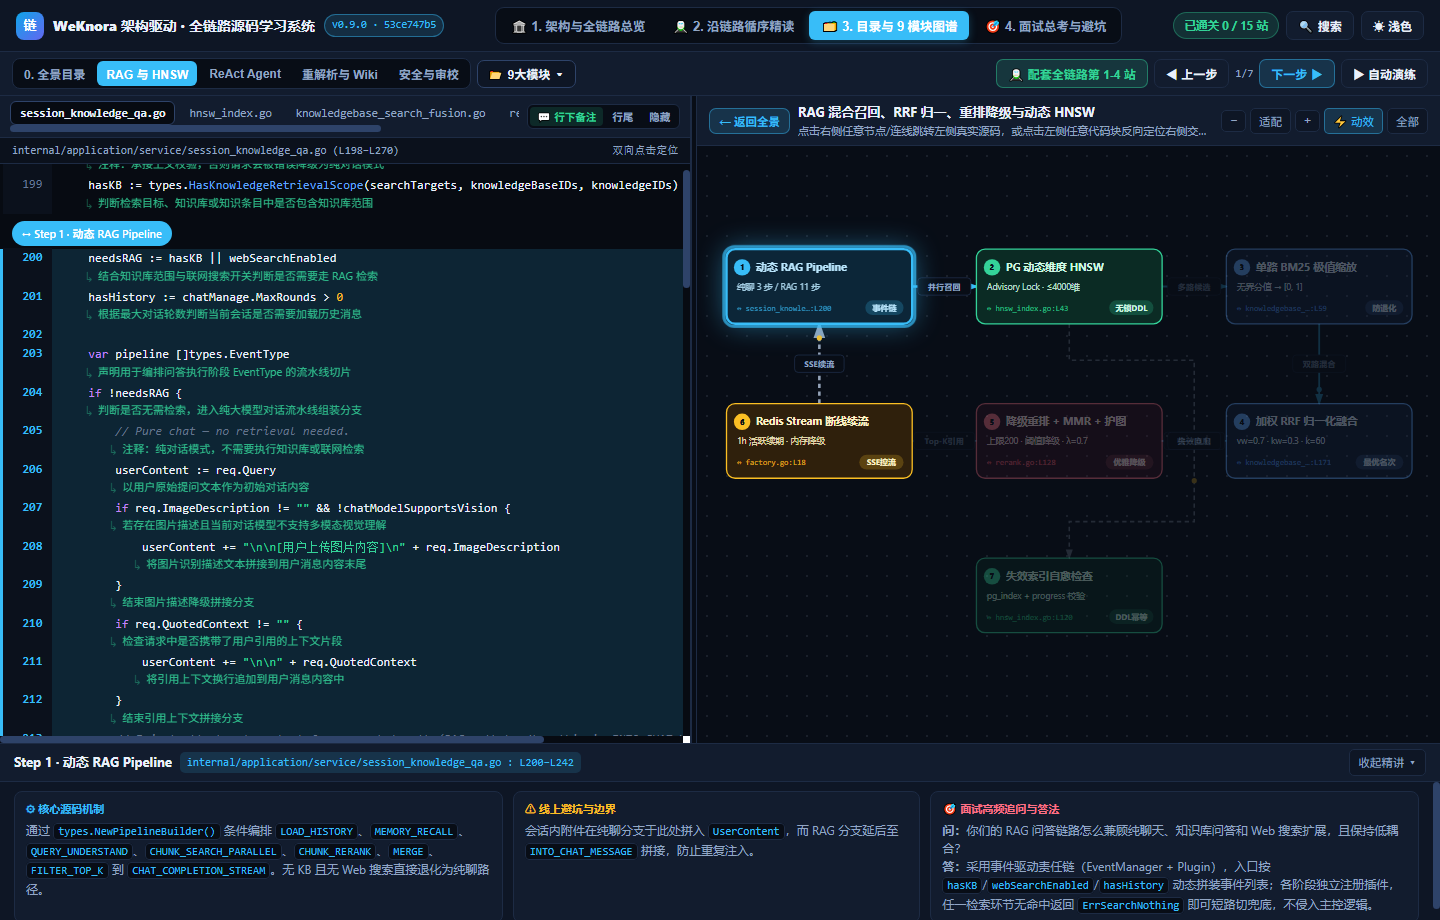
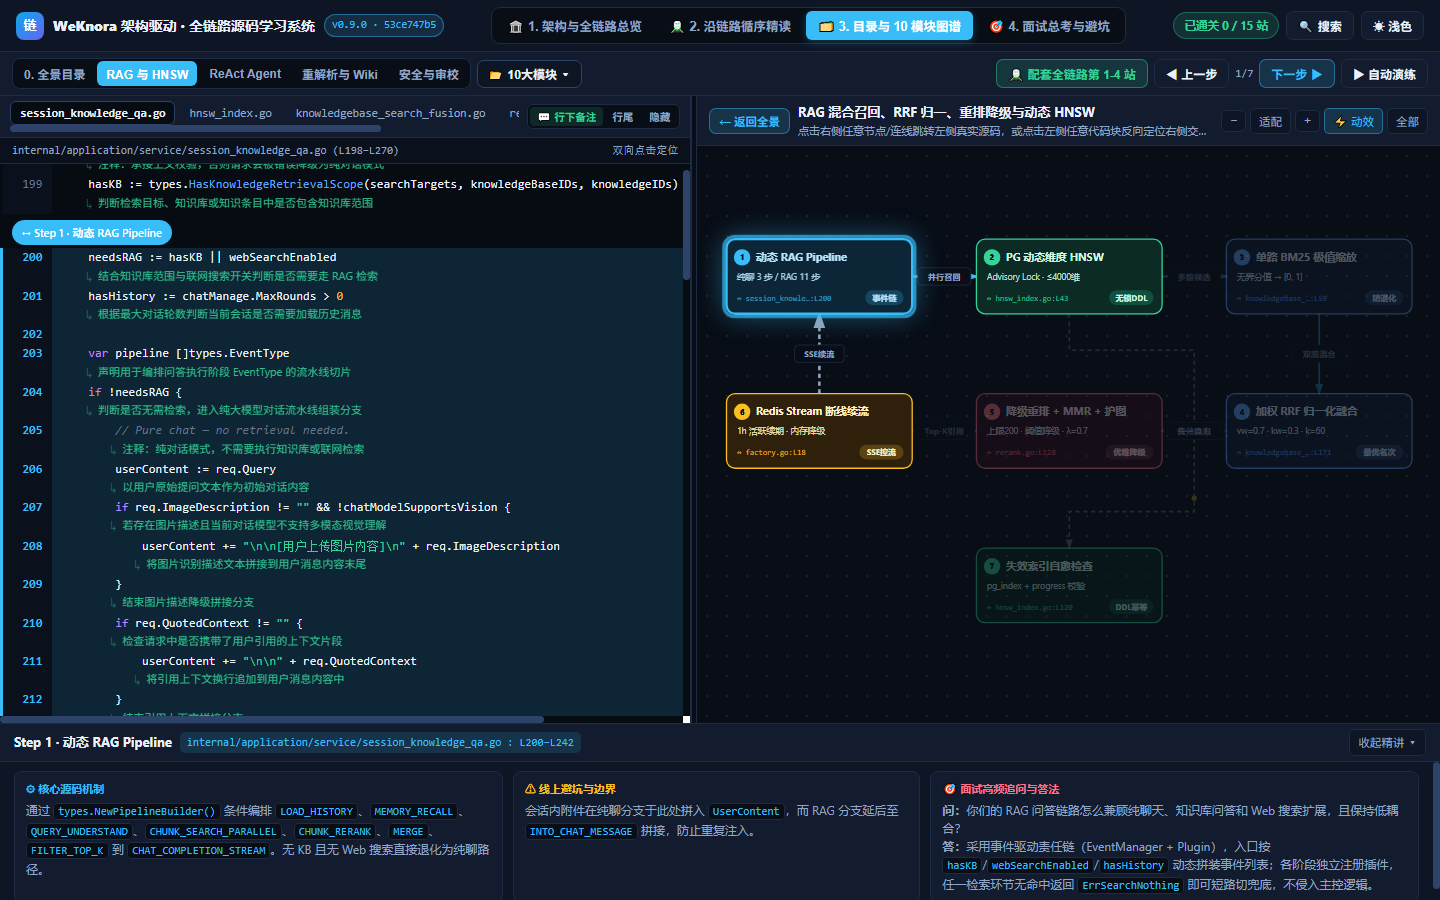
docs: add v6 interactive walkthrough GIF, full 4-view gallery & refreshed showcase

diff --git a/README.en.md b/README.en.md
@@ -50,8 +50,8 @@
 > **Try it zero-install in your browser**: [**🎮 Open Live Interactive Demo**](https://frank-zhu2000.github.io/repo-mastery-html/) — showcasing one real-world output generated from [`Tencent/WeKnora`](https://github.com/Tencent/WeKnora). `repo-mastery-html` adapts cleanly to **any language and open-source archetype** (Web/Backend, Frontend/UI, CLI/Compiler, or SDK/AI Engine across **18+ languages**). Note: generated study notes and per-line annotations are crafted in Simplified Chinese (`zh-CN`).
 
 <div align="center">
-  <img src="./docs/assets/03-station-code-notes.png" alt="Station-by-Station Learning Studio: Verbatim Code with Per-line Notes vs Pain Point & Micro-Flow" width="100%" />
-  <p><sub><b>Flagship View · Station-by-Station Studio:</b> Verbatim source code with 100% per-line annotations on the left (below / inline / hidden toggles) ↔ STEP 1 Pain Point + Intuition Analogy + STEP 2 Interactive Micro-Flow & Pitfalls on the right.</sub></p>
+  <img src="./docs/assets/demo-walkthrough.gif" alt="v6 Interactive Walkthrough: 3 Blueprints + 6-Dim Dossiers + Fullscreen Modal + Ctrl+K + Per-line Code Studio + Module Flows" width="100%" />
+  <p><sub><b>Full v6 Interactive Walkthrough:</b> 3 overview blueprints with anti-misclick neighbor highlighting → inline 2-column &amp; fullscreen 6-dim dossiers + Q&amp;A self-test → <code>Ctrl+K</code> global search → 100% per-line annotated code ↔ 5-STEP studio → module drill-down &amp; light theme.</sub></p>
 </div>
 
 <table>
@@ -59,31 +59,43 @@
     <td width="50%" align="center">
       <img src="./docs/assets/01-overview-dataflow.png" alt="Map 1: Full-Chain Dataflow Grid with Topology Highlight" width="100%" />
       <br />
-      <sub><b>Map 1 · Full-Chain Dataflow & Neighbor Highlight</b><br />Stage × Flow lanes with single-track focus, upstream/downstream edge highlighting & green completion sync</sub>
+      <sub><b>Map 1 · Full-Chain Dataflow &amp; Neighbor Highlight</b><br />Stage × Flow lanes with single-track focus, upstream/downstream edge highlighting &amp; green completion sync</sub>
     </td>
     <td width="50%" align="center">
-      <img src="./docs/assets/07-overview-dossier-deck.png" alt="Inline 2-Column 6-Dimension Dossier Deck" width="100%" />
+      <img src="./docs/assets/09-overview-techarch.png" alt="Map 2: Tech Architecture Boundaries and Blast Radius" width="100%" />
       <br />
-      <sub><b>View 1 · Inline 6-Dimension Dossier Deck</b><br />Collapsible 2-column encyclopedia: Role/Principles/Anchors + P0/P1 outage simulation + Neighbor jumps + Q&A self-test</sub>
+      <sub><b>Map 2 · Tech Architecture &amp; Blast Radius</b><br />Component × dashed trust boundaries × orthogonal edge highlights focusing on layering &amp; failure scope</sub>
     </td>
   </tr>
   <tr>
     <td width="50%" align="center">
+      <img src="./docs/assets/07-overview-dossier-deck.png" alt="Inline 2-Column 6-Dimension Dossier Deck" width="100%" />
+      <br />
+      <sub><b>View 1 · Inline 6-Dimension Dossier Deck</b><br />Collapsible 2-column encyclopedia: Role/Principles/Anchors + P0/P1 outage simulation + Neighbor jumps + Q&amp;A self-test</sub>
+    </td>
+    <td width="50%" align="center">
       <img src="./docs/assets/08-overview-dossier-modal.png" alt="Fullscreen Dossier Reading Modal" width="100%" />
       <br />
-      <sub><b>View 1 · Fullscreen Dossier Modal</b><br />Smooth `←/→` keyboard & button roaming, expand/collapse interview answers & `Esc` modal close</sub>
+      <sub><b>View 1 · Fullscreen Dossier Modal</b><br />Smooth <code>←/→</code> keyboard &amp; button roaming, expand/collapse interview answers &amp; <code>Esc</code> modal close</sub>
     </td>
+  </tr>
+  <tr>
     <td width="50%" align="center">
       <img src="./docs/assets/02-overview-businessflow.png" alt="Map 3: End-to-End Business Swimlanes" width="100%" />
       <br />
-      <sub><b>Map 3 · End-to-End Business Swimlanes</b><br />Phases × Swimlanes × SLA failure perspective with multi-track filters & multi-view jump buttons</sub>
+      <sub><b>Map 3 · End-to-End Business Swimlanes</b><br />Phases × Swimlanes × SLA failure perspective with multi-track filters &amp; multi-view jump buttons</sub>
+    </td>
+    <td width="50%" align="center">
+      <img src="./docs/assets/03-station-code-notes.png" alt="Station-by-Station Learning Studio: Verbatim Code with Per-line Notes vs Pain Point & Micro-Flow" width="100%" />
+      <br />
+      <sub><b>View 2 · Station-by-Station Studio</b><br />100% per-line annotated source on the left (below / inline / hidden toggles) ↔ STEP 1 Analogy + STEP 2 Micro-Flow</sub>
     </td>
   </tr>
   <tr>
     <td width="50%" align="center">
       <img src="./docs/assets/04-station-io-contract.png" alt="STEP 3 Concrete I/O Data Contracts" width="100%" />
       <br />
-      <sub><b>STEP 3 · Concrete I/O Data Contracts</b><br />Entering struct/parameter tables → core transforms → exiting schema & concrete payloads</sub>
+      <sub><b>STEP 3 · Concrete I/O Data Contracts</b><br />Entering struct/parameter tables → core transforms → exiting schema &amp; concrete payloads</sub>
     </td>
     <td width="50%" align="center">
       <img src="./docs/assets/05-workbench-drilldown.png" alt="Annotated Directory Tree and Module Drill-Down" width="100%" />
@@ -94,7 +106,15 @@
 </table>
 
 <details>
-<summary>🌞 Expand to preview Light Theme v6 fullscreen dossier modal (one-click Dark / Light toggle inside the HTML)</summary>
+<summary>🎯 View 4 · Interview Sprint &amp; Mastery Exam Preview (3-Min Teleprompter + Skip Guide + Exam)</summary>
+<br />
+<div align="center">
+  <img src="./docs/assets/10-interview-exam.png" alt="View 4: 3-Minute Interview Teleprompter, Peripheral Skip Guide, and Mastery Exam" width="100%" />
+</div>
+</details>
+
+<details>
+<summary>🌞 Light Theme v6 Fullscreen Dossier Modal Preview (one-click Dark / Light toggle inside the HTML)</summary>
 <br />
 <div align="center">
   <img src="./docs/assets/06-light-theme.png" alt="Light Theme v6 Fullscreen Dossier Modal Preview" width="100%" />

diff --git a/README.md b/README.md
@@ -50,8 +50,8 @@
 > **零安装直接试玩**：[**🎮 点击打开 GitHub Pages 在线交互 Demo**](https://frank-zhu2000.github.io/repo-mastery-html/) —— 以开源项目 [`Tencent/WeKnora`](https://github.com/Tencent/WeKnora) 为实景案例生成，展示本 Skill 对任意 GitHub/本地开源仓库（支持 **Web 后端 / 前端框架 / CLI 编译器 / SDK 与 AI 引擎** 等 4 类架构原型及 **18+ 编程语言**）生成的单文件离线 HTML 效果。
 
 <div align="center">
-  <img src="./docs/assets/03-station-code-notes.png" alt="沿链路循序精读：左 100% 逐行中文精注源码 ↔ 右 痛点/类比/微流转图" width="100%" />
-  <p><sub><b>旗舰视图 · 沿链路循序精读：</b>左栏真实源码 100% 逐行中文精注（行下/行尾/隐藏一键切换）↔ 右栏 STEP 1 痛点与 0 基础类比 + STEP 2 微流转图双向高亮 + 线上避坑指南。</sub></p>
+  <img src="./docs/assets/demo-walkthrough.gif" alt="v6 全链路交互式源码学习系统动图演示（三大蓝图 + 6 维导读 + 全屏漫游 + Ctrl+K + 逐行中文源码 + 模块图谱）" width="100%" />
+  <p><sub><b>完整 v6 交互动图实录：</b>三大总览蓝图防误触选中与上下游高亮 → 图下 2 列 & 全屏 6 维导读与面试题自测 → <code>Ctrl+K</code> 全域搜索 → 左 100% 逐行中文源码 ↔ 右 5-STEP 学习工坊 → 目录模块流程图 ↔ 浅色主题切换。</sub></p>
 </div>
 
 <table>
@@ -62,21 +62,33 @@
       <sub><b>图一 · 全链路数据流转与节点联动</b><br />Stage × 主线网格，支持单链聚焦、选中节点上下游连线高亮、无关淡化与绿灯通关同步</sub>
     </td>
     <td width="50%" align="center">
-      <img src="./docs/assets/07-overview-dossier-deck.png" alt="图下常驻 2 列 6 维导读面板" width="100%" />
+      <img src="./docs/assets/09-overview-techarch.png" alt="图二：技术架构边界与爆炸半径视角" width="100%" />
       <br />
-      <sub><b>View 1 · 图下常驻 6 维深度导读</b><br />2 列可收起导读面板：作用/原理/源码锚点 + P0/P1 故障推演 + 上下游胶囊跳转 + 面试题自测</sub>
+      <sub><b>图二 · 技术架构边界与宕机爆炸半径</b><br />组件 × 虚线边界 × 正交连线高亮，聚焦架构分层选型、安全防线与故障波及面</sub>
     </td>
   </tr>
   <tr>
     <td width="50%" align="center">
+      <img src="./docs/assets/07-overview-dossier-deck.png" alt="图下常驻 2 列 6 维导读面板" width="100%" />
+      <br />
+      <sub><b>View 1 · 图下常驻 6 维深度导读</b><br />2 列可收起导读面板：作用/原理/源码锚点 + P0/P1 故障推演 + 上下游胶囊跳转 + 面试题自测</sub>
+    </td>
+    <td width="50%" align="center">
       <img src="./docs/assets/08-overview-dossier-modal.png" alt="全屏深读居中弹层" width="100%" />
       <br />
-      <sub><b>View 1 · 一键全屏深读弹层</b><br />支持 `←/→` 键盘与按钮无跳页漫游、面试题答案一键展开/折叠、`Esc` 退出弹层</sub>
+      <sub><b>View 1 · 一键全屏深读弹层</b><br />支持 <code>←/→</code> 键盘与按钮无跳页漫游、面试题答案一键展开/折叠、<code>Esc</code> 退出弹层</sub>
     </td>
+  </tr>
+  <tr>
     <td width="50%" align="center">
       <img src="./docs/assets/02-overview-businessflow.png" alt="图三：端到端业务流程泳道图" width="100%" />
       <br />
       <sub><b>图三 · 端到端业务流程泳道图</b><br />阶段 × 业务泳道 × SLA 故障视角，支持多轨筛选与主/次站点与模块图谱跳转</sub>
+    </td>
+    <td width="50%" align="center">
+      <img src="./docs/assets/03-station-code-notes.png" alt="沿链路循序精读：左 100% 逐行中文精注源码 ↔ 右 痛点/类比/微流转图" width="100%" />
+      <br />
+      <sub><b>View 2 · 沿链路循序精读工坊</b><br />左栏真实源码 100% 逐行中文精注（行下/行尾/隐藏切换）↔ 右栏 STEP 1 痛点类比 + STEP 2 微流转</sub>
     </td>
   </tr>
   <tr>
@@ -88,13 +100,21 @@
     <td width="50%" align="center">
       <img src="./docs/assets/05-workbench-drilldown.png" alt="目录与模块流程图双向联动" width="100%" />
       <br />
-      <sub><b>视图 3 · 全中文目录树 ↔ 模块流程图</b><br />完整中文注释目录树 1-to-1 下钻模块流程图，双向精准滚动定位</sub>
+      <sub><b>View 3 · 全中文目录树 ↔ 模块流程图</b><br />完整中文注释目录树 1-to-1 下钻模块流程图，支持平移缩放与双向精准滚动定位</sub>
     </td>
   </tr>
 </table>
 
 <details>
-<summary>🌞 点击展开：查看浅色主题 v6 全屏深读实拍效果（支持一键深浅色切换）</summary>
+<summary>🎯 View 4 · 面试总考与避坑实拍（3 分钟提词器 + 红黑榜 + 通关总考）</summary>
+<br />
+<div align="center">
+  <img src="./docs/assets/10-interview-exam.png" alt="View 4：3 分钟项目总述提词器、外围胶水红黑榜与结业总考" width="100%" />
+</div>
+</details>
+
+<details>
+<summary>🌞 浅色主题 v6 全屏深读实拍（支持一键深浅色切换）</summary>
 <br />
 <div align="center">
   <img src="./docs/assets/06-light-theme.png" alt="浅色主题 v6 全屏深读弹层实拍" width="100%" />
